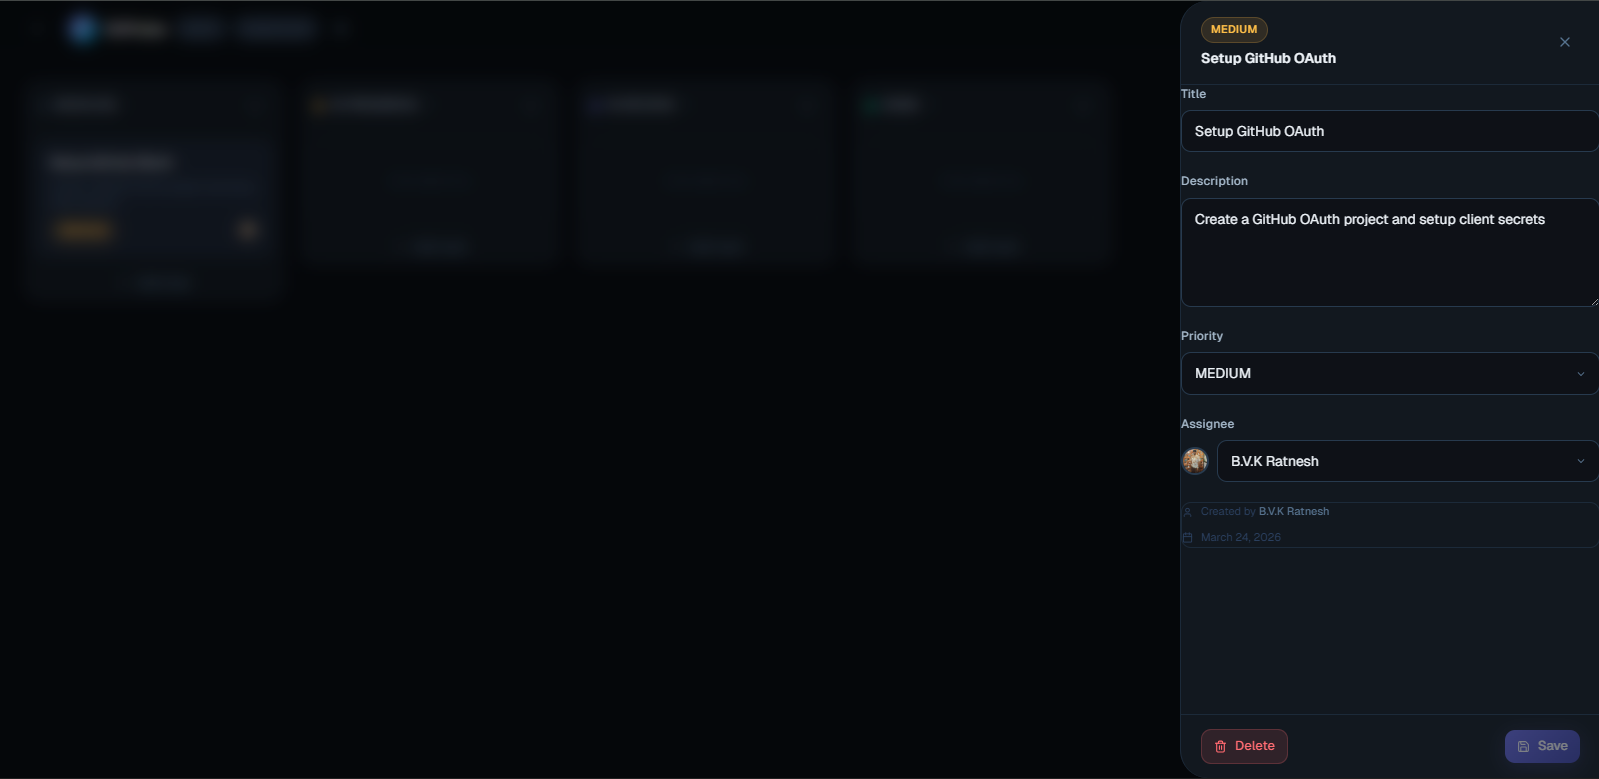
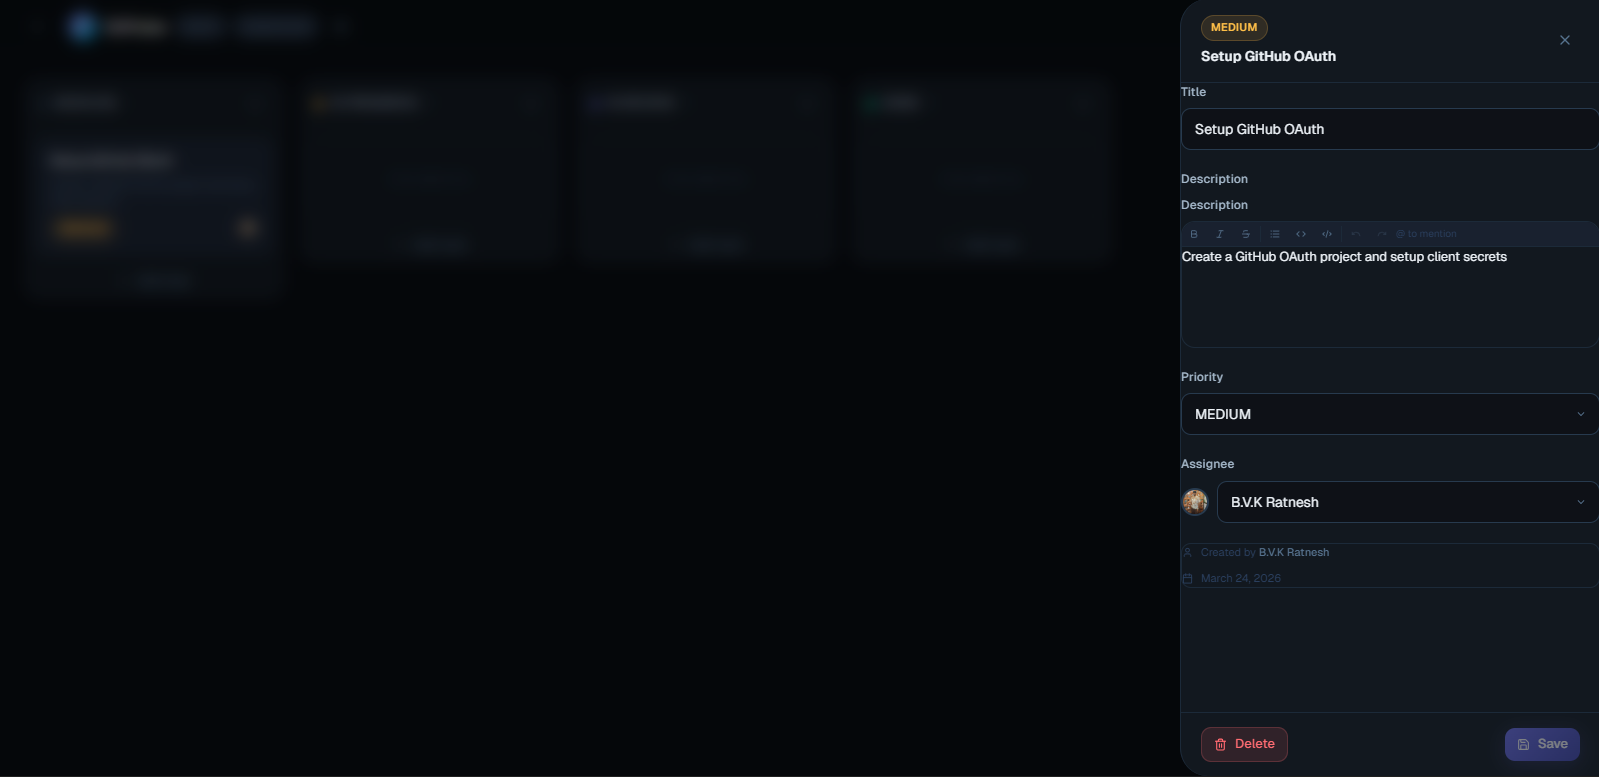
README update

diff --git a/README.md b/README.md
@@ -1,124 +1,129 @@
 # BranchBoard
 
-> A real-time developer collaboration platform. Kanban boards, team collaboration, and live updates — built for developers.
+> A real-time developer collaboration platform built for developers — Kanban boards, live presence, rich text tasks, and instant sync via WebSockets.
+
+![CI](https://github.com/ratnesh2507/collab-platform/actions/workflows/ci.yml/badge.svg)
+![License](https://img.shields.io/badge/license-MIT-blue)
+![Node](https://img.shields.io/badge/node-22%2B-brightgreen)
 
 ## 🌐 Live Demo
 
-- Frontend: https://collab-platform-beta.vercel.app/
-- Backend API: https://branchboard.onrender.com/
+- **App:** https://branch-board.vercel.app/
+- **Backend API:** https://branchboard.onrender.com/
 
 ## 📸 Screenshots
 
-| Dashboard                            | Board                            |
-| ------------------------------------ | -------------------------------- |
-| ![](./frontend/public/dashboard.png) | ![](./frontend/public/board.png) |
+| Dashboard                                     | Board                                 |
+| --------------------------------------------- | ------------------------------------- |
+| ![Dashboard](./frontend/public/dashboard.png) | ![Board](./frontend/public/board.png) |
 
-| New Project                            | Task                                |
-| -------------------------------------- | ----------------------------------- |
-| ![](./frontend/public/new_project.png) | ![](./frontend/public/new_task.png) |
+| New Project                                       | Task Detail                             |
+| ------------------------------------------------- | --------------------------------------- |
+| ![New Project](./frontend/public/new_project.png) | ![Task](./frontend/public/new_task.png) |
 
-| Edit Task                            | Activity Feed                            |
-| ------------------------------------ | ---------------------------------------- |
-| ![](./frontend/public/edit_task.png) | ![](./frontend/public/activity_feed.png) |
+| Live Editing Presence                                   | Notifications                                         |
+| ------------------------------------------------------- | ----------------------------------------------------- |
+| ![Live Indicator](./frontend/public/live_indicator.png) | ![Notifications](./frontend/public/notifications.png) |
 
-| Notifications                            |
-| ---------------------------------------- |
-| ![](./frontend/public/notifications.png) |
+| Rich Text Editor                              | Activity Feed                                    |
+| --------------------------------------------- | ------------------------------------------------ |
+| ![Edit Task](./frontend/public/edit_task.png) | ![Activity](./frontend/public/activity_feed.png) |
 
 ## ✨ Features
 
 ### 🔐 Authentication & Access
 
-- GitHub OAuth — Sign in instantly with your GitHub account
-- Secure auth using JWT + httpOnly cookies
-- Role-based access for project collaboration
+- GitHub OAuth — one-click sign in with your GitHub account
+- Secure JWT authentication via httpOnly cookies (cross-origin safe)
+- Shareable invite links for project onboarding
 
 ### 📋 Project & Task Management
 
 - Create projects and invite teammates via shareable links
 - Kanban boards — Backlog → In Progress → In Review → Done
 - Full task lifecycle — create, edit, delete, assign, prioritize
-- Drag & drop with persistent ordering
+- **Optimistic UI** — drag & drop updates instantly, rolls back automatically on error
+- Persistent column ordering and task positions
 
 ### ⚡ Real-Time Collaboration
 
-- Live updates on task changes (create/edit/delete/move)
-- Real-time sync powered by Socket.IO
-- Online presence indicators
-- Activity feed with granular tracking
+- Live task updates via Socket.IO — no polling, no page refreshes
+- **Live editing presence** — see exactly who is editing a task right now
+- Online member count and presence indicators
+- Activity feed with granular per-action tracking
 
-### 💬 Collaboration Enhancements
+### ✍ Rich Text & Mentions
 
-- @mentions — Tag teammates in task descriptions/comments
-- Rich text descriptions — Format tasks with enhanced editing support
-- Notifications system for mentions and activity
+- **Tiptap editor** — bold, italic, strikethrough, bullet lists, inline code, syntax-highlighted code blocks
+- **@mentions** — tag teammates directly in task descriptions
+- Mention notifications delivered in real time to the notification bell
+- Undo/redo history in the editor
 
 ### 🧪 Testing & Quality
 
-- Backend testing with Jest + Supertest
-- API endpoint coverage for reliability
-- Input validation using Zod
+- Backend API tested with **Jest + Supertest** — task CRUD, auth guards, 403/404 coverage
+- Full TypeScript strict mode on both frontend and backend
+- Input validation with Zod on every API endpoint
 
 ### 🔄 CI/CD
 
-- Continuous Integration setup for automated checks
-- Linting & test runs on pull requests
-- Ensures stability before merges
-
-## 🚀 Highlights
-
-- Real-time collaboration using WebSockets
-- Scalable architecture with separated frontend/backend
-- Cloud deployment with connection pooling
-- Secure authentication using httpOnly cookies
+- **GitHub Actions** pipeline — lint, typecheck, and tests run on every push and PR
+- Separate `tsconfig.build.json` for production builds (excludes test/mock files)
+- Render auto-deploys on merge to main
 
 ## 🛠 Tech Stack
 
 ### Frontend
 
-| Technology       | Purpose                 |
-| ---------------- | ----------------------- |
-| React + Vite     | UI framework            |
-| TypeScript       | Type safety             |
-| Tailwind CSS v4  | Styling                 |
-| TanStack Query   | Data fetching + caching |
-| Zustand          | Auth state              |
-| dnd-kit          | Drag and drop           |
-| Socket.IO Client | Real-time updates       |
-| React Router v7  | Routing                 |
+| Technology          | Purpose                                    |
+| ------------------- | ------------------------------------------ |
+| React 19 + Vite     | UI framework                               |
+| TypeScript (strict) | Type safety                                |
+| Tailwind CSS v4     | Styling                                    |
+| TanStack Query v5   | Data fetching, caching, optimistic updates |
+| Zustand             | Auth state                                 |
+| dnd-kit             | Drag and drop                              |
+| Tiptap              | Rich text editor                           |
+| Socket.IO Client    | Real-time updates                          |
+| React Router v7     | Routing                                    |
 
 ### Backend
 
-| Technology             | Purpose        |
-| ---------------------- | -------------- |
-| Node.js + Express      | Server         |
-| TypeScript             | Type safety    |
-| Prisma v7              | ORM            |
-| PostgreSQL             | Database       |
-| Socket.IO              | WebSockets     |
-| JWT + httpOnly cookies | Authentication |
-| Zod                    | Validation     |
-| Jest + Supertest       | Validation     |
+| Technology             | Purpose            |
+| ---------------------- | ------------------ |
+| Node.js + Express v5   | Server             |
+| TypeScript (strict)    | Type safety        |
+| Prisma v7              | ORM                |
+| PostgreSQL (Supabase)  | Database           |
+| Socket.IO              | WebSockets         |
+| JWT + httpOnly cookies | Authentication     |
+| Zod                    | Request validation |
+| Jest + Supertest       | API testing        |
 
 ## 🏗 Architecture
 
 ```
 Frontend (Vercel)
-↓
+      ↓  REST + httpOnly cookies
 Backend (Render)
-↓
+      ↓  Prisma ORM
 Supabase (PostgreSQL)
+
+Frontend ←→ Backend (Socket.IO WebSocket)
 ```
 
-- Backend handles authentication and authorization
-- Supabase is used as a managed PostgreSQL database (no direct client access)
-- Socket.IO enables real-time collaboration
+**Key decisions:**
+
+- Backend owns all auth — the frontend never touches JWTs directly
+- Supabase used as a managed Postgres host with connection pooling (no direct client access)
+- Socket.IO rooms per project — events are scoped, not broadcast globally
+- Optimistic updates via TanStack Query `onMutate`/`onError` — UI updates instantly, rolls back on server error without a refetch flicker
 
 ## 🚀 Getting Started
 
 ### Prerequisites
 
-- Node.js 18+
+- Node.js 22+
 - A GitHub account (for OAuth)
 
 ### 1. Clone the repository
@@ -170,15 +175,16 @@ npx prisma db push
 npx prisma generate
 ```
 
-### 5. GitHub OAuth App
+### 5. GitHub OAuth App (local dev)
 
 1. Go to **GitHub → Settings → Developer Settings → OAuth Apps → New OAuth App**
-2. Set **Authorization callback URL** to `http://localhost:5000/api/auth/github/callback`
-3. Copy **Client ID** and **Client Secret** into `backend/.env`
+2. Set **Homepage URL** to `http://localhost:5173`
+3. Set **Authorization callback URL** to `http://localhost:5000/api/auth/github/callback`
+4. Copy **Client ID** and **Client Secret** into `backend/.env`
+
+> For production, create a separate OAuth app pointing to your deployed URLs.
 
 ### 6. Run the project
-
-You need 2 terminals:
 
 ```bash
 # Terminal 1 — Backend
@@ -190,28 +196,39 @@ cd frontend && npm run dev
 
 Visit `http://localhost:5173` and sign in with GitHub.
 
+### 7. Run tests
+
+```bash
+cd backend && npm test
+```
+
 ## 📁 Project Structure
 
 ```
 collab-platform/
+├── .github/
+│   └── workflows/
+│       └── ci.yml              # Lint, typecheck, test pipeline
 ├── frontend/
 │   └── src/
 │       ├── components/
-│       │   ├── board/         # Board, TaskCard, Modals, Panels
-│       │   ├── projects/      # ProjectCard, CreateProjectModal
-│       │   └── ui/
-│       ├── hooks/             # useAuth, useProjects, useTasks
-│       ├── lib/               # api.ts, socket.ts
-│       ├── pages/             # Landing, Dashboard, Board, Invite
-│       ├── store/             # authStore
-│       └── types/             # TypeScript interfaces
+│       │   ├── board/          # Board, TaskCard, TaskDetailPanel, Modals
+│       │   ├── projects/       # ProjectCard, CreateProjectModal
+│       │   └── ui/             # NotificationBell, RichTextEditor
+│       ├── hooks/              # useAuth, useProjects, useTasks, useNotifications
+│       ├── lib/                # api.ts, socket.ts
+│       ├── pages/              # Landing, Dashboard, Board, Invite
+│       ├── store/              # authStore (Zustand)
+│       └── types/              # TypeScript interfaces
 └── backend/
     └── src/
-        ├── controllers/       # auth, project, task
-        ├── middleware/        # auth middleware
-        ├── routes/            # auth, project, task routes
-        ├── socket/            # Socket.IO event handlers
-        └── lib/               # prisma.ts, jwt.ts
+        ├── controllers/        # auth, project, task, notification
+        ├── middleware/         # authenticate middleware
+        ├── routes/             # auth, project, task, notification routes
+        ├── socket/             # Socket.IO event handlers + presence
+        ├── lib/                # prisma.ts, jwt.ts
+        ├── __tests__/          # Jest + Supertest API tests
+        └── __mocks__/          # Prisma mock for testing
 ```
 
 ## 📄 License
